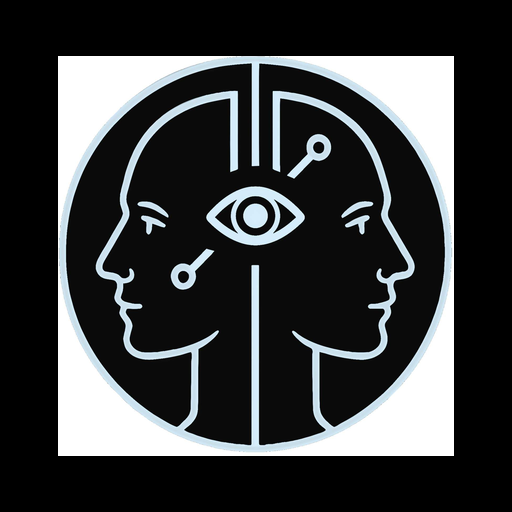
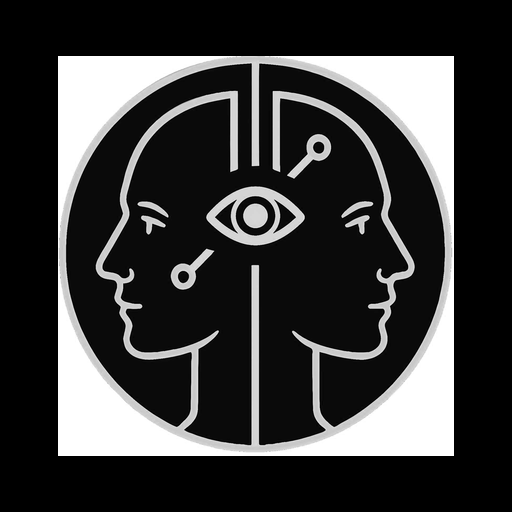
Refine the app's branding and improve cache busting for updates
Updates the app name, icons, and cache-busting mechanism in `index.html` and `manifest.json`, and replaces `pwa-icon` assets.

Replit-Commit-Author: Agent
Replit-Commit-Session-Id: 1910fef5-547d-4462-8400-f58af1ca33d1
Replit-Commit-Screenshot-Url: https://storage.googleapis.com/screenshot-production-us-central1/74ef77c6-9cc1-44da-9355-d282831fa46f/a3b34b7e-ac6d-406c-8139-8cb165e86760.jpg

diff --git a/client/index.html b/client/index.html
@@ -25,7 +25,7 @@
     <meta http-equiv="Pragma" content="no-cache">
     <meta http-equiv="Expires" content="0">
     <meta name="version" content="2.0-PWA-ENABLED">
-    <meta name="cache-bust" content="PIXEL-TRIM-1752065300000">
+    <meta name="cache-bust" content="PURE-BLACK-1752065500000">
     <link rel="stylesheet" href="/src/main.tsx?v=1749237670918">
 
   </head>
